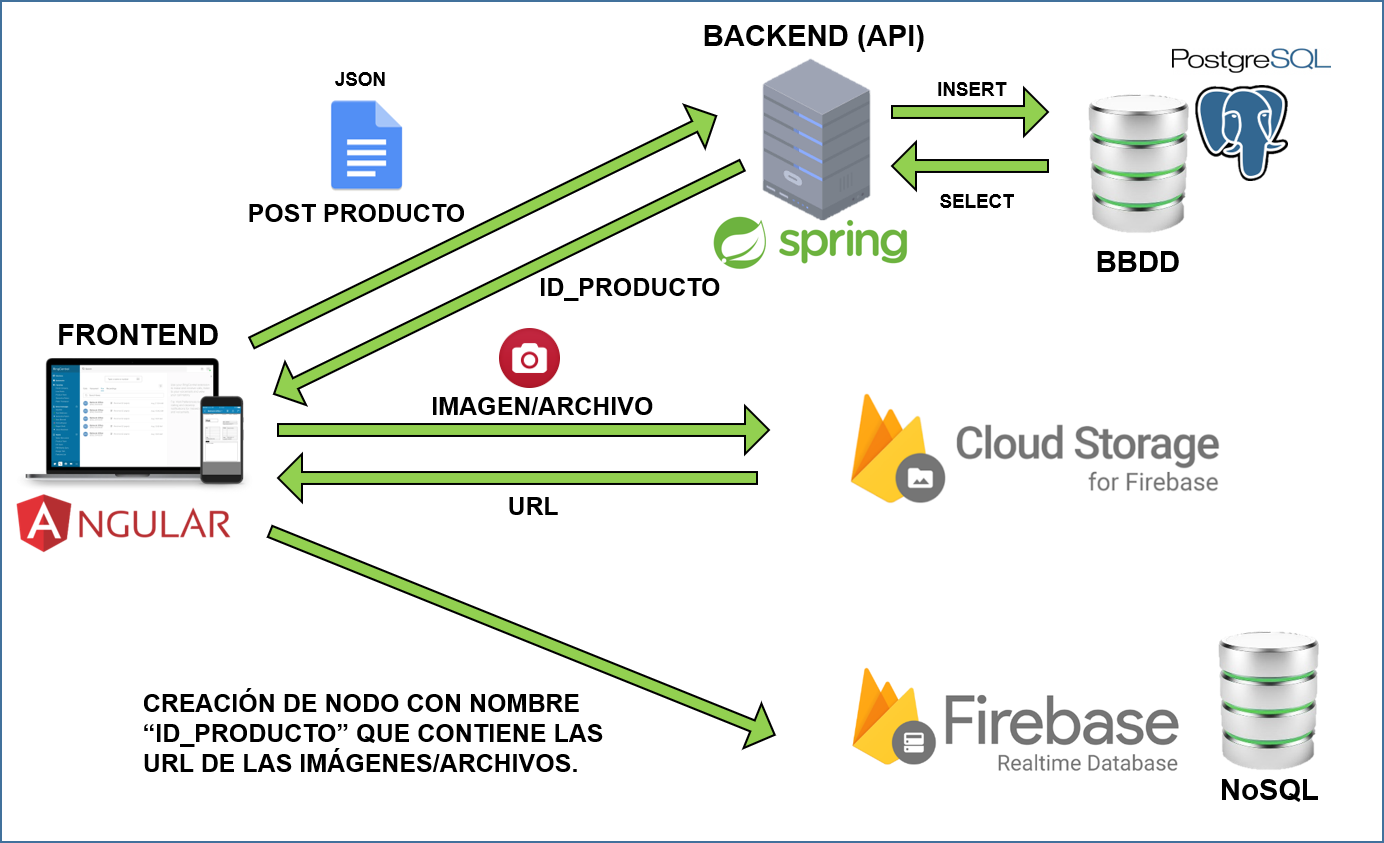
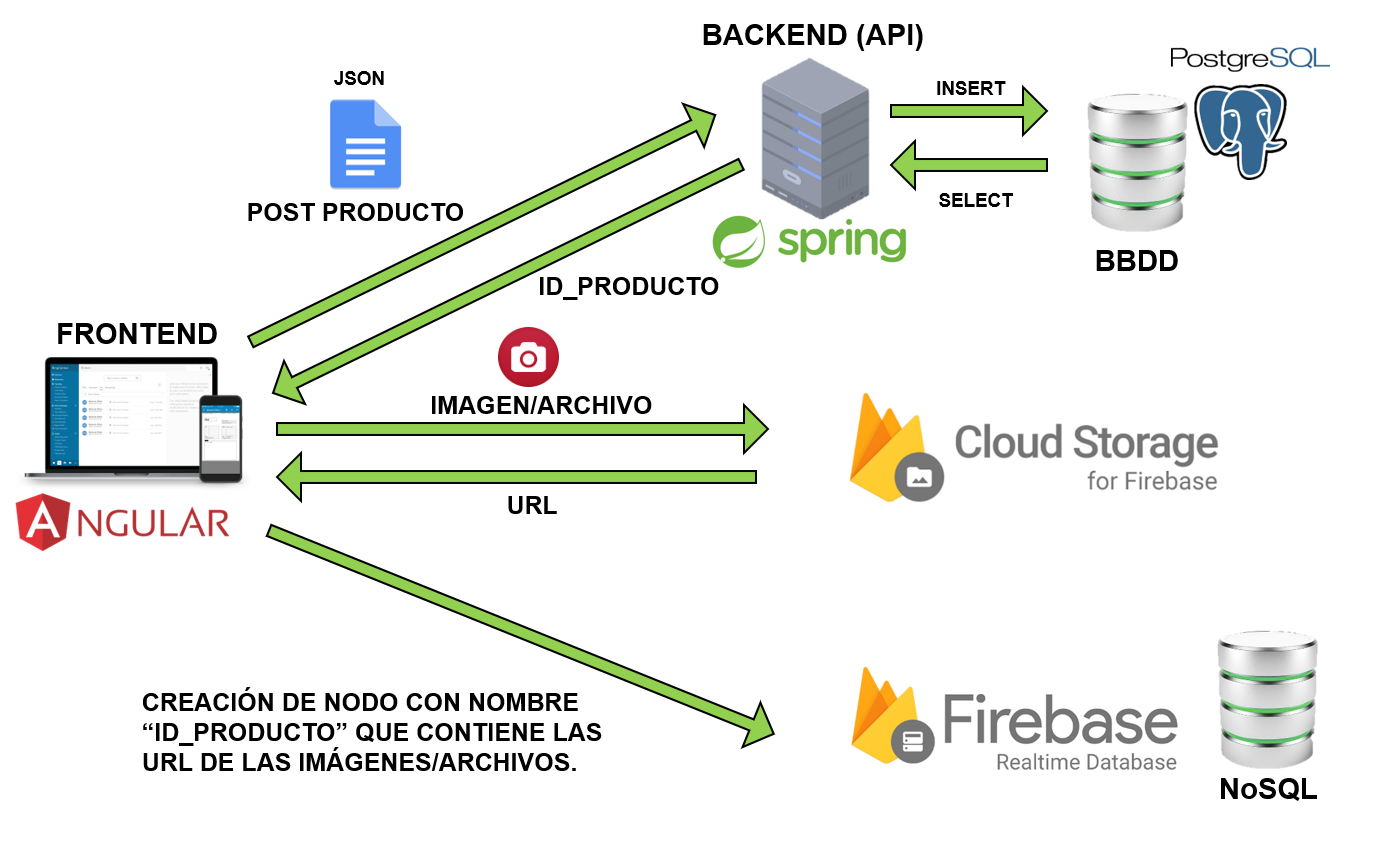
Documentacion V.3c

diff --git a/README.md b/README.md
@@ -24,7 +24,7 @@ El almacenamiento de imagenes se realiza en FIrebase (Storage y Realtime Databas
 <br>
 <p align="center"><b>CREACIÓN DE UN PRODUCTO</b></P>
 <p align="center">
-  <img width="900" height="auto" src="imagenes_doc/Imagenes_Firebase.png">
+  <img width="900" height="auto" src="imagenes_doc/Imagenes_firebase.png">
 </p>
 
 
@@ -42,7 +42,7 @@ Los usuarios se registran solos como "user". El "admin" puede crear también  ot
 
 Los usuarios y contraseñas son gestionados por Firebase Auth.
  <p align="center">
-  <img width="900" height="auto" src="imagenes_doc/Firebase_auth_croquis.png">
+  <img width="900" height="auto" src="imagenes_doc/Firebase_auth_esquema.png">
 </p>
 
 
